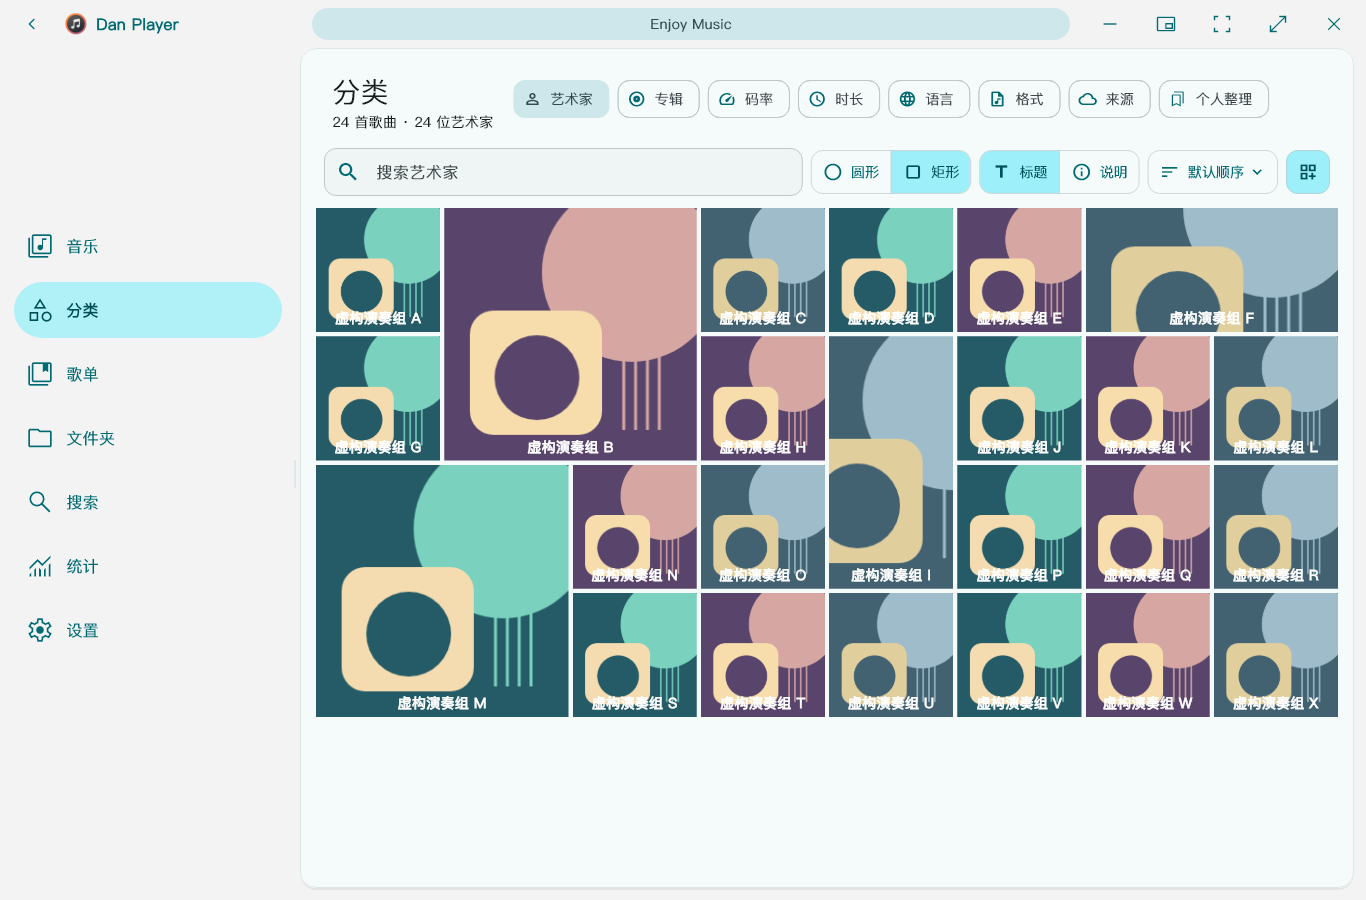
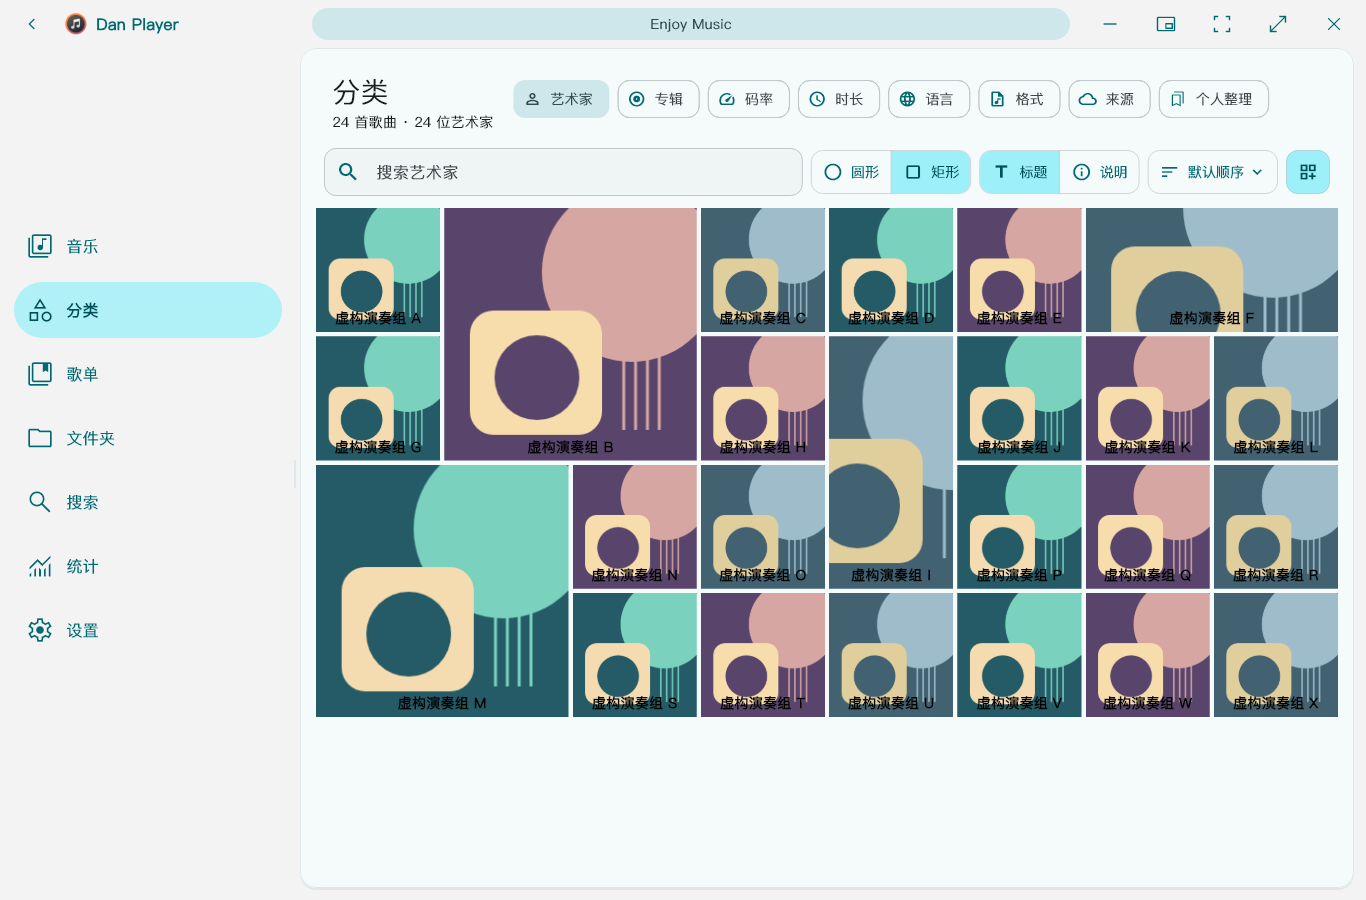
Isolate showcase persistence and wait for sampled caption colors

diff --git a/test/public_ui_showcase_test.dart b/test/public_ui_showcase_test.dart
@@ -3,6 +3,7 @@ import 'dart:ui' as ui;
 
 import 'package:dan_player/app_preference.dart';
 import 'package:dan_player/category_presentation.dart';
+import 'package:dan_player/component/cover_caption_colors.dart';
 import 'package:dan_player/app_settings.dart';
 import 'package:dan_player/component/app_fonts.dart';
 import 'package:dan_player/component/app_presentation.dart';
@@ -619,8 +620,14 @@ void main() {
   final covers = <ImageProvider>[];
   final iconFonts = <String, SfntFont>{};
   const channel = MethodChannel('window_manager');
+  const paths = MethodChannel('plugins.flutter.io/path_provider');
+  late Directory profile;
 
   setUpAll(() async {
+    final parent = await Directory('build/test-data').create(recursive: true);
+    profile = await parent.createTemp('public-ui-');
+    TestDefaultBinaryMessengerBinding.instance.defaultBinaryMessenger
+        .setMockMethodCallHandler(paths, (_) async => profile.absolute.path);
     for (final font in [
       (danEmbeddedFontFamily, 'assets/fonts/PingFangSC-Regular.ttf'),
       ('MaterialIcons', 'fonts/MaterialIcons-Regular.otf'),
@@ -661,8 +668,20 @@ void main() {
           'Run layout-only tests elsewhere; never publish blank language labels.');
     }
     for (var index = 0; index < 3; index++) {
-      covers.add(MemoryImage(await _coverBytes(index)));
+      final provider = MemoryImage(await _coverBytes(index));
+      covers.add(provider);
     }
+  });
+
+  tearDownAll(() async {
+    TestDefaultBinaryMessengerBinding.instance.defaultBinaryMessenger
+        .setMockMethodCallHandler(paths, null);
+    final resolved = await profile.resolveSymbolicLinks();
+    final parent = await Directory('build/test-data').resolveSymbolicLinks();
+    if (!resolved.startsWith('$parent${Platform.pathSeparator}public-ui-')) {
+      throw StateError('Refusing cleanup outside the public UI fixture');
+    }
+    await Directory(resolved).delete(recursive: true);
   });
 
   for (final scenario in _showcaseCases) {
@@ -930,6 +949,29 @@ void main() {
         ),
       ));
       await tester.pumpAndSettle();
+      if (page == 'tiles') {
+        final artwork = find.descendant(
+            of: find.byType(CategoriesPage), matching: find.byType(Image));
+        bool captionsReady() =>
+            artwork.evaluate().length == audios.length &&
+            artwork.evaluate().every((element) {
+              final image = element.widget as Image;
+              final box = element.renderObject! as RenderBox;
+              return CoverCaptionCache.cached(
+                      image.image, box.size.width / box.size.height) !=
+                  null;
+            });
+        // Pixel readback completes on the real image engine, outside fake time.
+        // Wait for actual sampled colors, not for the five-second fallback.
+        for (var attempt = 0; attempt < 40 && !captionsReady(); attempt++) {
+          await tester.runAsync(
+              () => Future<void>.delayed(const Duration(milliseconds: 20)));
+          await tester.pump(const Duration(milliseconds: 20));
+        }
+        expect(captionsReady(), isTrue,
+            reason: 'Export actual sampled caption colors');
+        await tester.pumpAndSettle();
+      }
       Future<List<Audio>?>? songPickerResult;
       if (['settings', 'appearance', 'theme'].contains(page)) {
         await _selectSettingsCategory(tester, 'appearance');
